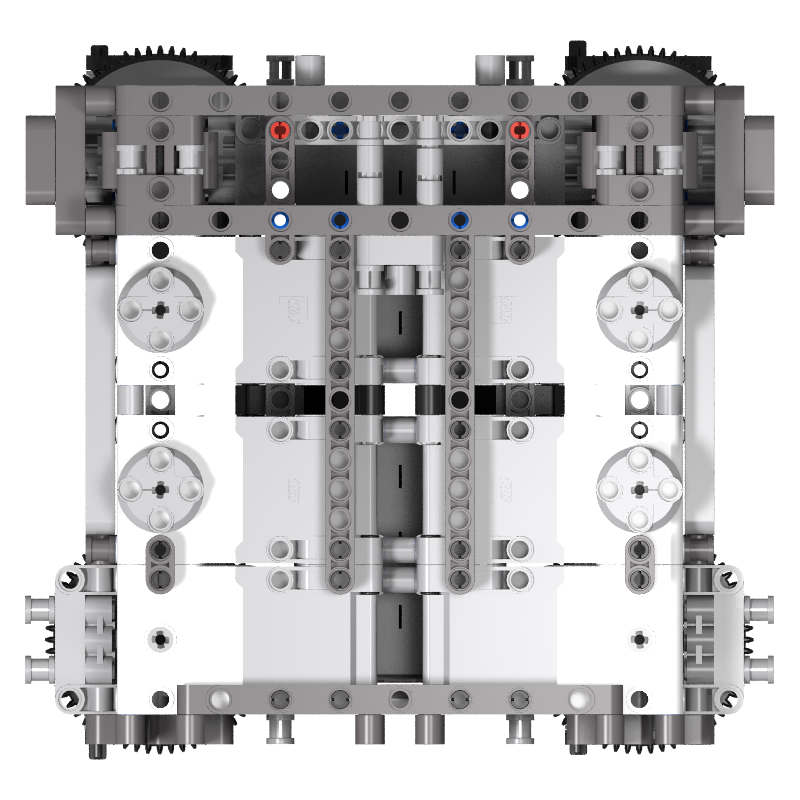
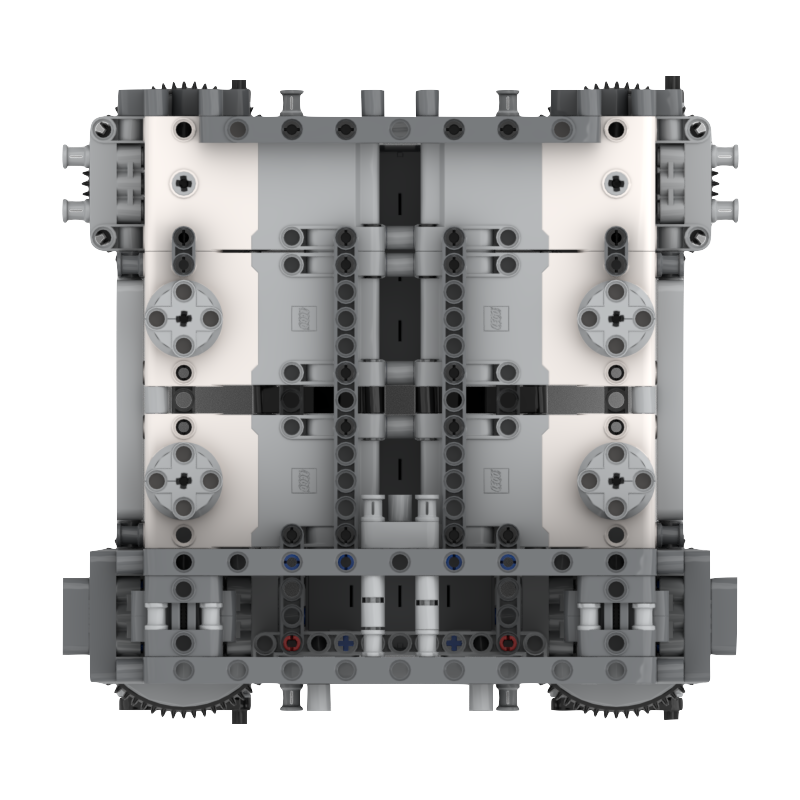
Display which buttons are pressed and added, & updated swerve drive visualization

diff --git a/src/app/page.tsx b/src/app/page.tsx
@@ -13,6 +13,7 @@ import { z } from "zod";
 import { Form, FormControl, FormField, FormItem, FormLabel, FormMessage } from "@/components/ui/form";
 import { useGamepad, Gamepad, AxisUpdate } from "@/hooks/use-gamepad";
 import Image from "next/image";
+import { cn } from "@/lib/utils";
 
 export default function Home() {
   const frontHub = useHub({ onMessage: () => {} });
@@ -20,11 +21,17 @@ export default function Home() {
 
   return (
     <Page title="Dashboard">
-      <div className="grid gap-4 grid-cols-1 lg:grid-cols-2">
+      <div className="grid gap-6 grid-cols-1 lg:grid-cols-2">
         <FrontHubCard frontHub={frontHub} />
         <RearHub rearHub={rearHub} />
-        <GamepadCard frontHub={frontHub} rearHub={rearHub} />
-        <TelemetryCard />
+        <div className="grid gap-4 self-start">
+          <GamepadCard frontHub={frontHub} rearHub={rearHub} />
+          <Card>
+            <CardHeader title="Logs" />
+            <CardContent>...</CardContent>
+          </Card>
+        </div>
+        <TelemetryCard frontHub={frontHub} rearHub={rearHub} />
       </div>
     </Page>
   );
@@ -231,11 +238,18 @@ function GamepadCard({ frontHub, rearHub }: { frontHub: Hub; rearHub: Hub }) {
       <CardContent>
         <div className="bg-muted/50 rounded-md pt-8 px-4 flex flex-col items-center overflow-clip relative">
           <div className="h-[12rem] w-[32rem] relative">
+            <GamepadButton isPressed={gamepad?.buttons[0]?.pressed} className="bg-[#74bf3f] w-[24px] h-[26px] top-[98px] right-[150px]" />
+            <GamepadButton isPressed={gamepad?.buttons[1]?.pressed} className="bg-[#e63e35] w-[23px] h-[25px] top-[75px] right-[126px]" />
+            <GamepadButton isPressed={gamepad?.buttons[2]?.pressed} className="bg-[#0d9de7] w-[24px] h-[26px] top-[73px] right-[175px]" />
+            <GamepadButton isPressed={gamepad?.buttons[3]?.pressed} className="bg-[#e4e236] w-[24px] h-[26px] top-[49px] right-[150px]" />
             <Image
               src="/images/xbox-controller.png"
               fill
               alt="XBOX Controler"
-              className="absolute inset-0 object-cover object-top mix-blend-luminosity opacity-75 drop-shadow-[0_0_24px_hsl(223deg_84%_5%_/_50%)]"
+              className={cn(
+                "absolute inset-0 object-cover object-top mix-blend-luminosity drop-shadow-[0_0_24px_hsl(223deg_84%_5%_/_50%)]",
+                gamepad.isConnected ? "opacity-100" : "opacity-75"
+              )}
             />
             {gamepad.isConnected && (
               <svg viewBox="0 0 32 12" xmlns="http://www.w3.org/2000/svg" className="inset-0 absolute">
@@ -281,6 +295,10 @@ function GamepadThumbstick({ x, y, transform }: { x: number; y: number; transfor
   );
 }
 
+function GamepadButton({ isPressed, className }: { isPressed: boolean; className: string }) {
+  return <div className={cn("absolute rounded-full", isPressed ? "opacity-100" : "opacity-0", className)} />;
+}
+
 function GamepadBadge({ gamepad }: { gamepad: Gamepad }) {
   return <Badge variant={gamepad.isConnected ? "default" : "outline"}>{gamepad.isConnected ? "Connected" : "Not connected"}</Badge>;
 }
@@ -299,7 +317,7 @@ function GamepadActions({ gamepad }: { gamepad: Gamepad }) {
   );
 }
 
-function TelemetryCard() {
+function TelemetryCard({ frontHub, rearHub }: { frontHub: Hub; rearHub: Hub }) {
   return (
     <Card>
       <CardHeader title="Telemetry" description="Real-time data from the robot." />
@@ -307,10 +325,13 @@ function TelemetryCard() {
         <div className="bg-muted/50 rounded-md p-4 flex flex-col items-center justify-center flex-grow h-[560px]">
           <Image
             src="/images/swerve-drive.png"
-            width={320}
-            height={320}
+            width={360}
+            height={360}
             alt="LEGO Swerve Drive"
-            className="mix-blend-luminosity opacity-75 drop-shadow-[0_0_24px_hsl(223deg_84%_5%_/_50%)] rotate-45"
+            className={cn(
+              "mix-blend-luminosity drop-shadow-[0_0_24px_hsl(223deg_84%_5%_/_50%)]",
+              frontHub.isConnected && rearHub.isConnected ? "opacity-100" : "opacity-75"
+            )}
           />
         </div>
       </CardContent>

diff --git a/src/components/page.tsx b/src/components/page.tsx
@@ -8,11 +8,10 @@ export default function Page({ title, children }: { title: string; children: Rea
           <Navigation />
         </div>
       </div>
-      <div className="flex-1 space-y-4 p-8 pt-6">
+      <div className="flex-1 space-y-6 p-8 pt-6">
         <div className="flex items-center justify-between space-y-2">
           <h2 className="text-3xl font-bold tracking-tight">{title}</h2>
         </div>
-
         {children}
       </div>
     </div>

diff --git a/src/hooks/use-gamepad.ts b/src/hooks/use-gamepad.ts
@@ -6,6 +6,7 @@ export interface Gamepad {
   y1: number;
   x2: number;
   y2: number;
+  buttons: readonly GamepadButton[];
   calibrate: () => void;
 }
 
@@ -159,6 +160,7 @@ export function useGamepad({
     y1,
     x2,
     y2,
+    buttons,
     calibrate,
   };
 

diff --git a/src/hooks/use-logs.ts b/src/hooks/use-logs.ts
@@ -1,0 +1,7 @@
+import { useState } from "react";
+
+export function useLogs() {
+  const [logs, setLogs] = useState<string[]>([]);
+
+  return { logs };
+}
